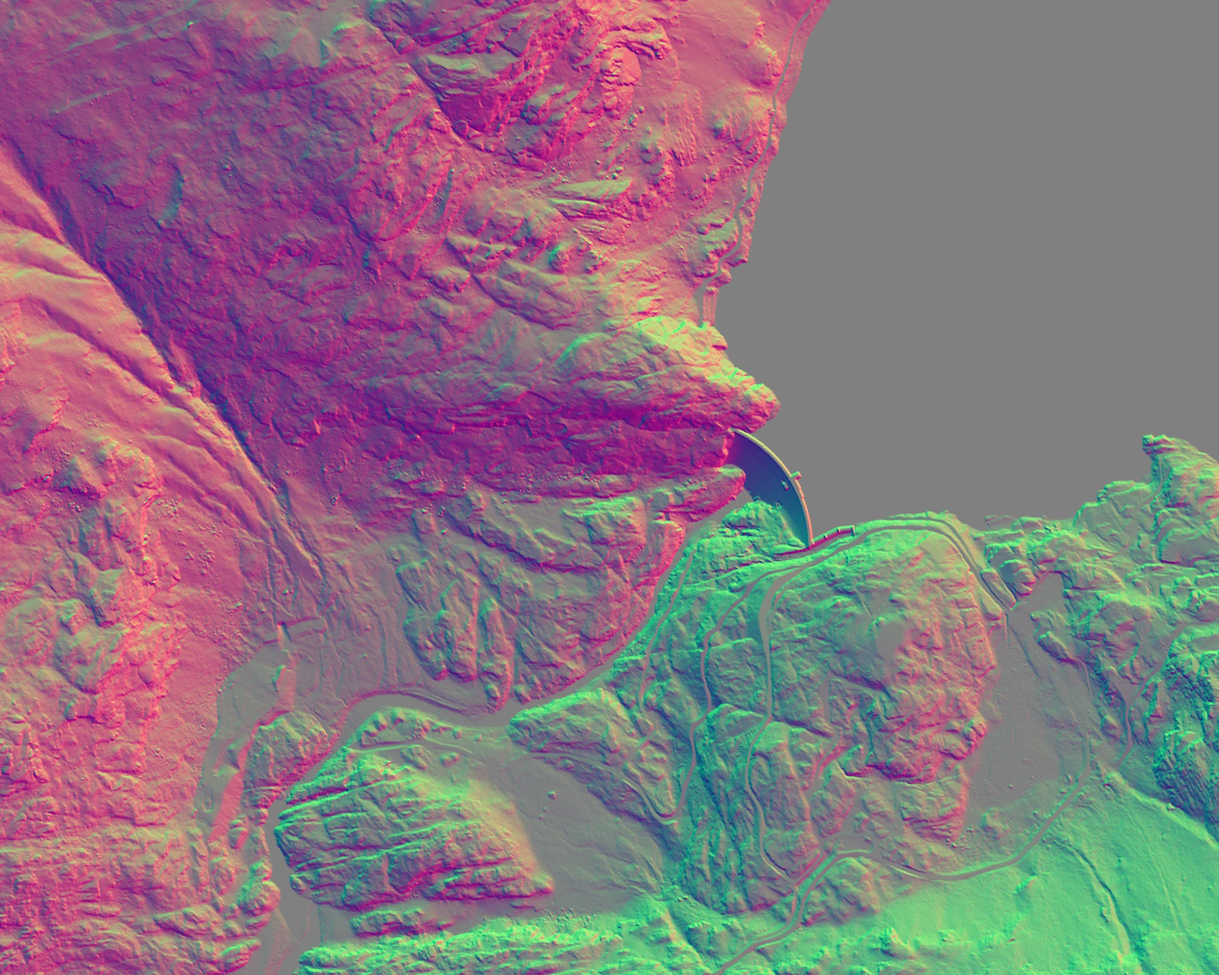
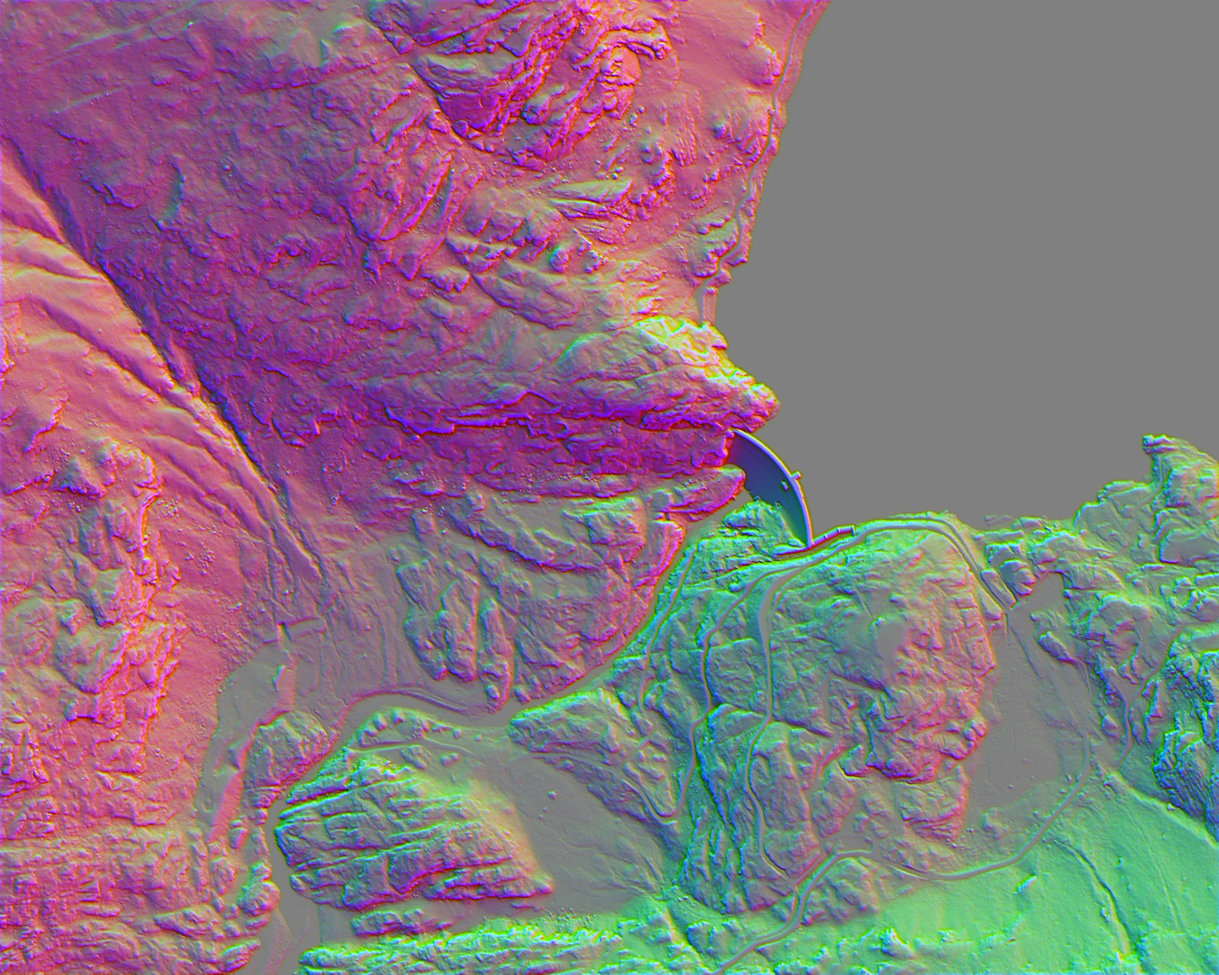
Granite lighting: 1 m hollows, no smeared baked shadows on cliffs
The relief tiles' blue channel now holds local relief (metres above the 3 m-blurred lidar);
hollows and cracks get less sky and a little less sun, edges a little more. The 10 m baked
light, looked up from above, smeared down cliffs into dark blobs: on steep faces it mostly
gives way to the face's own angle to the sun. Elsewhere in tiles its edge is firmer and the
flat sky fill a touch lower. The 1 m normal steps back to a third on near-vertical faces,
where a plan-view map stretches. detail.py caches its 1 m downloads.

Changed region(s): [[0.0, 0.0, 1.0, 1.0], [0.217, 0.0, 0.248, 0.0312], [0.0, 0.0, 0.031, 0.0312]]

diff --git a/renderer/land/ground.js b/renderer/land/ground.js
@@ -94,12 +94,16 @@ export function createGroundMaterial(terrain, biomeBase, biome, look = landLook(
               .mul(smoothstep(0, 40, nn.sub(b)))
               .mul(smoothstep(0, 40, float(top).sub(nn))),
             c = texture(t.tex, uv2).rgb.mul(255).sub(128).div(127),
-            n1 = vec3(c.x, max(float(1).sub(c.x.mul(c.x)).sub(c.y.mul(c.y)), 0).sqrt(), c.y);
-          return { n: mix(acc.n, n1, edge), w: max(acc.w, edge) };
+            n1 = vec3(c.x, max(float(1).sub(c.x.mul(c.x)).sub(c.y.mul(c.y)), 0).sqrt(), c.y),
+            // A plan-view map stretches down a near-vertical face: step back to a third there.
+            w = edge.mul(mix(float(1), float(0.35), smoothstep(0.55, 0.85, float(1).sub(nMesh.y))));
+          // h: metres above the 3 m-blurred surface (hollows negative), from the blue channel.
+          return { n: mix(acc.n, n1, w), w: max(acc.w, w), h: mix(acc.h, c.z.mul(1.5), edge) };
         },
-        { n: nMesh, w: float(0) },
+        { n: nMesh, w: float(0), h: float(0) },
       ),
       relief = fromTiles.w,
+      hollow = fromTiles.h,
       n0 = normalize(fromTiles.n),
       slope = float(1).sub(n0.y),
       valley = g.z,
@@ -156,9 +160,19 @@ export function createGroundMaterial(terrain, biomeBase, biome, look = landLook(
       // Wet only at the lake's own shore (the drawdown zone), not the canyon below a dam,
       // which lies far below the lake surface.
       albedo = mix(albedo, albedo.mul(0.45), wet.mul(g.w));
-      const sunLit = u.sunColor.mul(max(dot(n, u.sun), 0).mul(light.x)),
-        skyLit = u.fill.mul(n.y.mul(0.3).add(0.38).mul(light.y)),
-        bounce = vec3(0.2, 0.16, 0.08).mul(float(1).sub(n0.y).mul(0.25));
+      // Inside relief tiles: hollows and cracks see less sky (and a little less sun), edges a
+      // little more; the 10 m baked shadow gets firmer edges; the flat sky fill comes down a
+      // touch so sun and shade read on the rock.
+      // The baked light (sun visibility .x, sky openness .y) is one value per 10 m cell looked
+      // up from above: on a cliff each cell smears down the whole face into blobs. On steep
+      // ground it mostly gives way to the face's own angle to the sun and the 1 m hollows.
+      const occlusion = clamp(hollow.mul(0.36).add(1), 0.45, 1.15),
+        steepFace = smoothstep(0.4, 0.75, float(1).sub(nMesh.y)),
+        sunShadow = mix(mix(light.x, smoothstep(0.2, 0.8, light.x), relief), float(1), steepFace.mul(0.85)),
+        skyOpen = mix(light.y, float(0.8), steepFace.mul(0.7)),
+        sunLit = u.sunColor.mul(max(dot(n, u.sun), 0).mul(sunShadow).mul(clamp(hollow.mul(0.2).add(1), 0.7, 1.08))),
+        skyLit = u.fill.mul(n.y.mul(0.3).add(0.38).mul(skyOpen).mul(occlusion).mul(mix(float(1), float(0.85), relief))),
+        bounce = vec3(0.2, 0.16, 0.08).mul(float(1).sub(n0.y).mul(0.25)).mul(occlusion);
       return albedo.mul(sunLit.add(skyLit).add(bounce));
     }
     const soilW = max(bank, patch.mul(0.6));

diff --git a/pipeline/detail.py b/pipeline/detail.py
@@ -4,7 +4,7 @@ the 10 m terrain grid cannot hold, used as lighting (surface normals) by the gro
 Usage:  python pipeline/detail.py <id>
 Reads "detail" from data/<id>/land.json: [{"name": ..., "centre": [lat, lon], "size": [w, h]}]
 (metres). For each tile writes data/<id>/detail-<name>.webp — the 1 m surface normal, x (east)
-in red and z (south) in green, 128 = level — and lists the tiles, their UTM extents and the
+in red and z (south) in green, 128 = level, and local relief in blue — and lists the tiles, their UTM extents and the
 request URLs in data/<id>/detail.json.
 """
 import io
@@ -16,6 +16,7 @@ from pathlib import Path
 
 import numpy as np
 from PIL import Image
+from scipy import ndimage
 
 import dem as demlib
 import geo
@@ -26,15 +27,21 @@ CHUNK = 1000  # metres per request; the service times out on larger 1 m exports
 
 
 def fetch_chunk(left, bottom, size_x, size_y, zone):
+    cache = ROOT / "pipeline" / ".cache" / f"3dep1m_{zone}_{left}_{bottom}_{size_x}_{size_y}.npy"
     url = (
         f"{demlib.SERVICE}/exportImage?bbox={left},{bottom},{left + size_x},{bottom + size_y}"
         f"&bboxSR=326{zone:02d}&imageSR=326{zone:02d}&size={int(size_x / RES)},{int(size_y / RES)}"
         "&format=tiff&pixelType=F32&interpolation=RSP_BilinearInterpolation&f=image"
     )
+    if cache.exists():
+        return np.load(cache), url
     for attempt in range(6):
         try:
             with urllib.request.urlopen(url, timeout=300) as r:
-                return np.array(Image.open(io.BytesIO(r.read())), dtype=np.float32), url
+                data = np.array(Image.open(io.BytesIO(r.read())), dtype=np.float32)
+            cache.parent.mkdir(parents=True, exist_ok=True)
+            np.save(cache, data)
+            return data, url
         except Exception as error:  # the service answers 502/504 under load; retry
             print(f"  retry {attempt + 1}: {error}")
             time.sleep(10 * (attempt + 1))
@@ -42,14 +49,17 @@ def fetch_chunk(left, bottom, size_x, size_y, zone):
 
 
 def encode_normals(dem, cell):
-    """RGB uint8: the surface normal's x (east) and z (south) as 128 + 127·n; blue unused."""
+    """RGB uint8: the surface normal's x (east) and z (south) as 128 + 127·n; blue the local
+    relief (metres above the 3 m-blurred surface, ±1.5 m as 128 ± 127): hollows and cracks
+    are dark, edges and knobs light."""
     gz, gx = np.gradient(dem, cell)  # rows run south, columns east
     nx, ny, nz = -gx, np.ones_like(gx), gz
     length = np.sqrt(nx * nx + ny * ny + nz * nz)
     rgb = np.zeros(dem.shape + (3,), np.uint8)
     rgb[..., 0] = np.clip(np.round(128 + 127 * nx / length), 0, 255)
     rgb[..., 1] = np.clip(np.round(128 + 127 * nz / length), 0, 255)
-    rgb[..., 2] = 128
+    local = np.clip(dem - ndimage.gaussian_filter(dem, 3.0 / cell), -1.5, 1.5)
+    rgb[..., 2] = np.clip(np.round(128 + 127 * local / 1.5), 0, 255)
     return rgb
 
 
@@ -80,7 +90,7 @@ def build(rid):
         print(f"{rid}: detail {tile['name']} {w}x{h} m at {RES} m -> {file} ({(out / file).stat().st_size // 1024} KB)")
     (out / "detail.json").write_text(json.dumps({
         "source": "USGS National Map 3D Elevation Program (3DEP) 1 m, public domain",
-        "encoding": "surface normal: red = x (east), green = z (south), 128 + 127·n",
+        "encoding": "red = normal x (east), green = normal z (south), 128 + 127·n; blue = local relief, metres above the 3 m-blurred surface, 128 + 127·h/1.5",
         "tiles": tiles,
     }, indent=2) + "\n")
 

diff --git a/pipeline/tests/test_detail.py b/pipeline/tests/test_detail.py
@@ -13,3 +13,11 @@ def test_a_slope_rising_east_tilts_the_normal_west():
     rgb = encode_normals(dem, 1.0)
     # nx = -1/sqrt(2) -> about 37 of 255; nz (south) unchanged.
     assert abs(int(rgb[4, 4, 0]) - 37) <= 2 and abs(int(rgb[4, 4, 1]) - 128) <= 1
+
+
+def test_hollows_are_dark_and_edges_light_in_blue():
+    dem = np.zeros((40, 40), np.float32)
+    dem[18:22, 18:22] = -1.0  # a 4 m pit
+    dem[5:9, 5:9] = 1.0  # a 4 m knob
+    rgb = encode_normals(dem, 1.0)
+    assert rgb[20, 20, 2] < 100 and rgb[7, 7, 2] > 156 and abs(int(rgb[30, 30, 2]) - 128) <= 2
